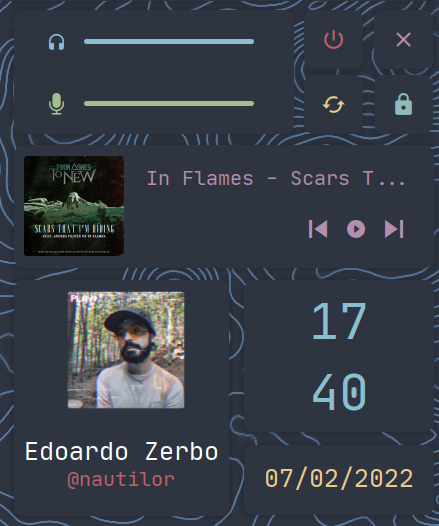
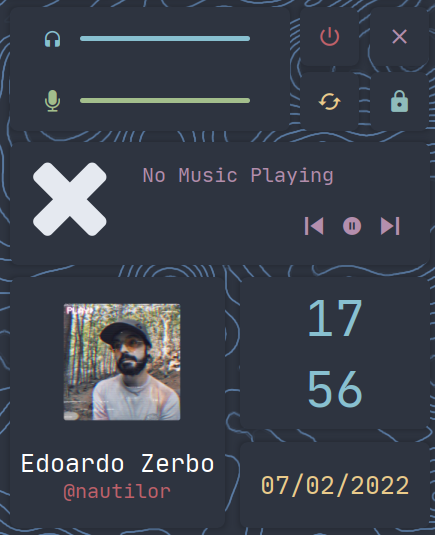
fixed user profile picture

diff --git a/eww/eww.scss b/eww/eww.scss
@@ -137,6 +137,7 @@ window {
 .profile-picture {
   margin: 10px;
   margin-right: 0px;
+  margin-top: 25px;
 }
 
 .profile-info {
@@ -177,6 +178,6 @@ window {
 .date-text {
   font-family: "JetBrainsMono Nerd Font Mono";
   font-size: 25px;
-  margin-top: 17px;
+  margin-top: 27px;
   color: #EBCB8B;
 }
